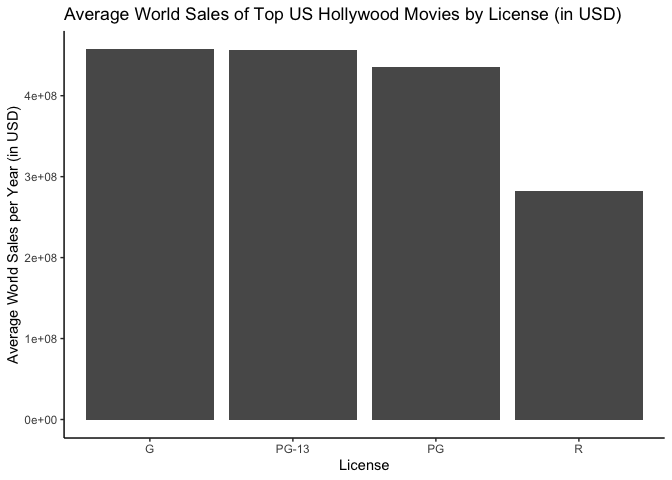
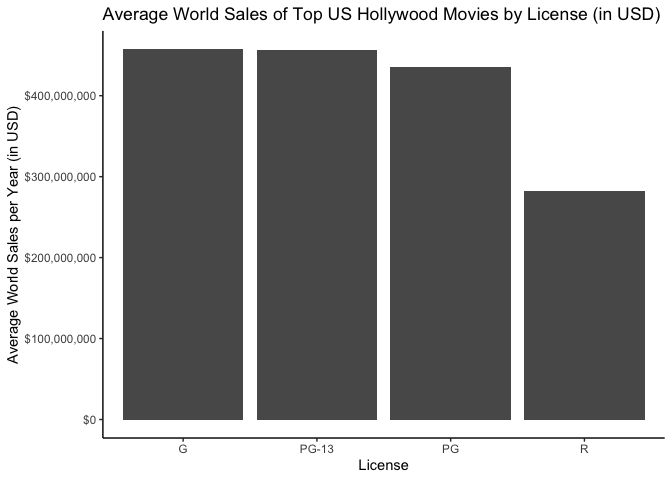
tweaks

diff --git a/hollywood_movies_EDA.md b/hollywood_movies_EDA.md
@@ -60,6 +60,8 @@ library(tidyverse)
 library(here)
 library(lubridate)
 library(knitr)
+
+theme_set(theme_classic())
 ```
 
 ## Import the Data
@@ -88,7 +90,16 @@ order to clean this dataset, you must:
 ``` r
 clean_movies <- movies %>%
   select(-`...1`) %>% # remove index
-  rename(title = `Title`, movie_info = `Movie Info`, distributor = `Distributor`, release_date = `Release Date`, domestic_sales_usd = `Domestic Sales (in $)`, international_sales_usd = `International Sales (in $)`, world_sales_usd = `World Sales (in $)`, genre = `Genre`, movie_runtime = `Movie Runtime`, license = `License`) #rename columns 
+  rename(title = `Title`, 
+         movie_info = `Movie Info`, 
+         distributor = `Distributor`, 
+         release_date = `Release Date`, 
+         domestic_sales_usd = `Domestic Sales (in $)`, 
+         international_sales_usd = `International Sales (in $)`, 
+         world_sales_usd = `World Sales (in $)`, 
+         genre = `Genre`, 
+         movie_runtime = `Movie Runtime`, 
+         license = `License`) #rename columns 
 ```
 
 2)  Next, I transformed the release date column into a year, month, and
